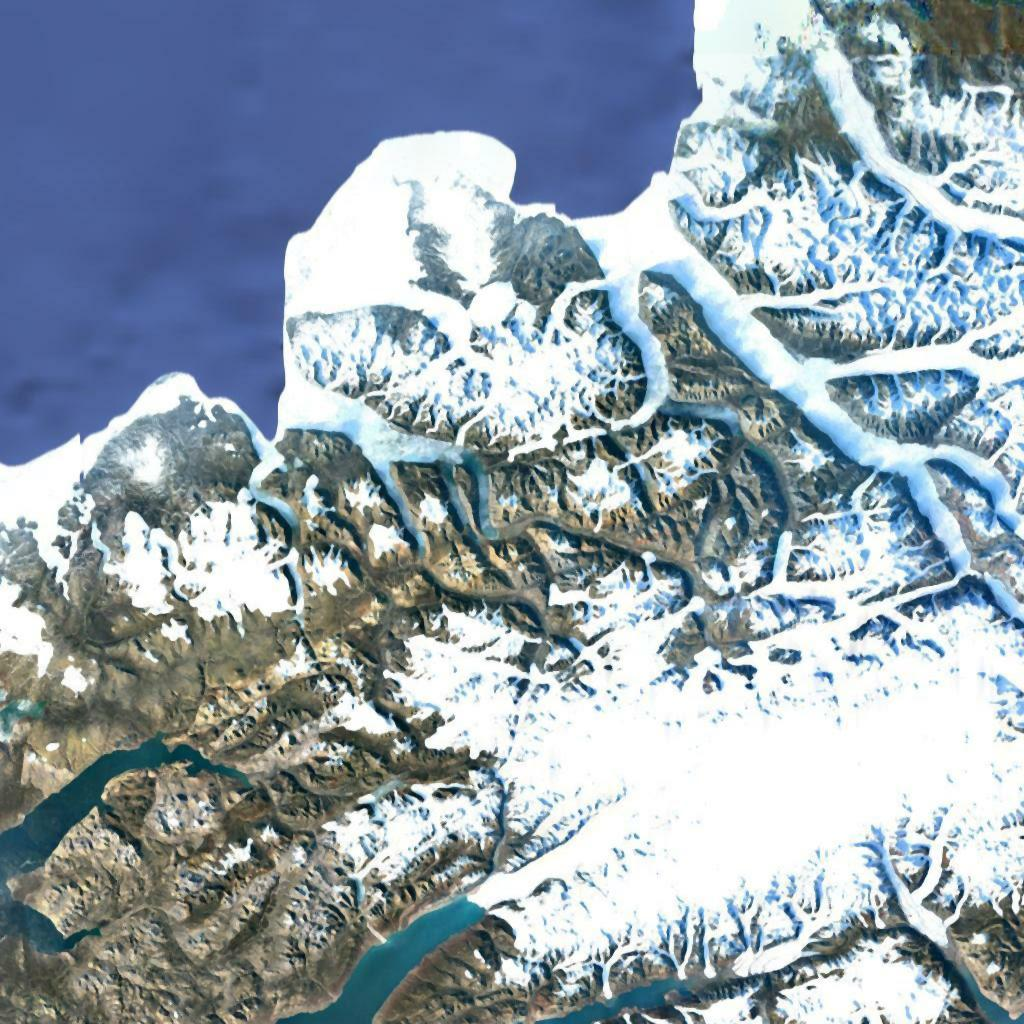
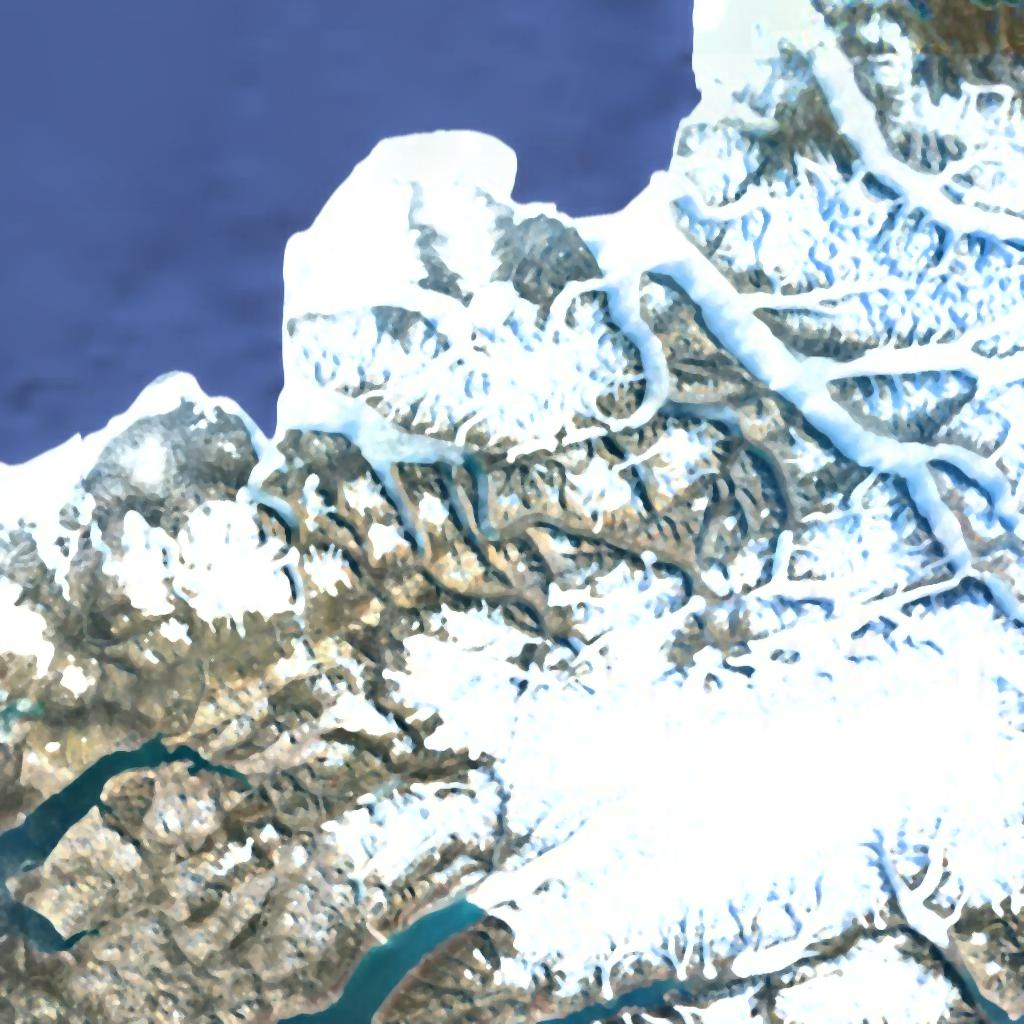
Update filter usage

diff --git a/Python/file.py b/Python/file.py
@@ -33,7 +33,7 @@ filters = {
     "box blur": ImageFilter.BoxBlur(10),
     "gaussian blur": ImageFilter.GaussianBlur(25),
     "unsharp mark": ImageFilter.UnsharpMask,
-    "rank filter": ImageFilter.RankFilter(size=3, rank=0),
+    "rank filter": ImageFilter.RankFilter(size=3, rank=8),
     "median": ImageFilter.MedianFilter(size=3),
 }
 
@@ -55,16 +55,19 @@ if __name__ == "__main__":
 
             # MARKUP - : Image Processing
             
-            imProcessedRank = im.filter(ImageFilter.RankFilter(size=3, rank=8))
-            imProcessedMedian = im.filter(ImageFilter.MedianFilter(size=3))
-            imProcessedBlur = im.filter(ImageFilter.BLUR)
-            imProcessedEmboss = im.filter(ImageFilter.EMBOSS)
-            imProcessedFindEdges = im.filter(ImageFilter.FIND_EDGES)
+            imLevel1_ProcessedRank = im.filter(filters["rank filter"])
+            imLevel2_ProcessedRank = imLevel1_ProcessedRank.filter(filters["median"])
+
+            #imProcessedRank = im.filter(ImageFilter.RankFilter(size=3, rank=8))
+            #imProcessedMedian = imProcessedRank.filter(ImageFilter.MedianFilter(size=3))
+            #imProcessedBlur = imProcessedMedian.filter(ImageFilter.BLUR)
+            #imProcessedEmboss = imProcessedBlur.filter(ImageFilter.EMBOSS)
+            #imProcessedFindEdges = imProcessedBlur.filter(ImageFilter.FIND_EDGES)
 
             ####################### 
 
             # MARKUP - : save images in folders
-            imProcessedMedian.save('./output/{}_processed{}'.format(fn, fext))
+            imLevel2_ProcessedRank.save('./output/{}_processed{}'.format(fn, fext))
 
             # MARKUP - : convert to png and save in png folder
             # i.save('./output/pngs/{}.png'.format(fn))
